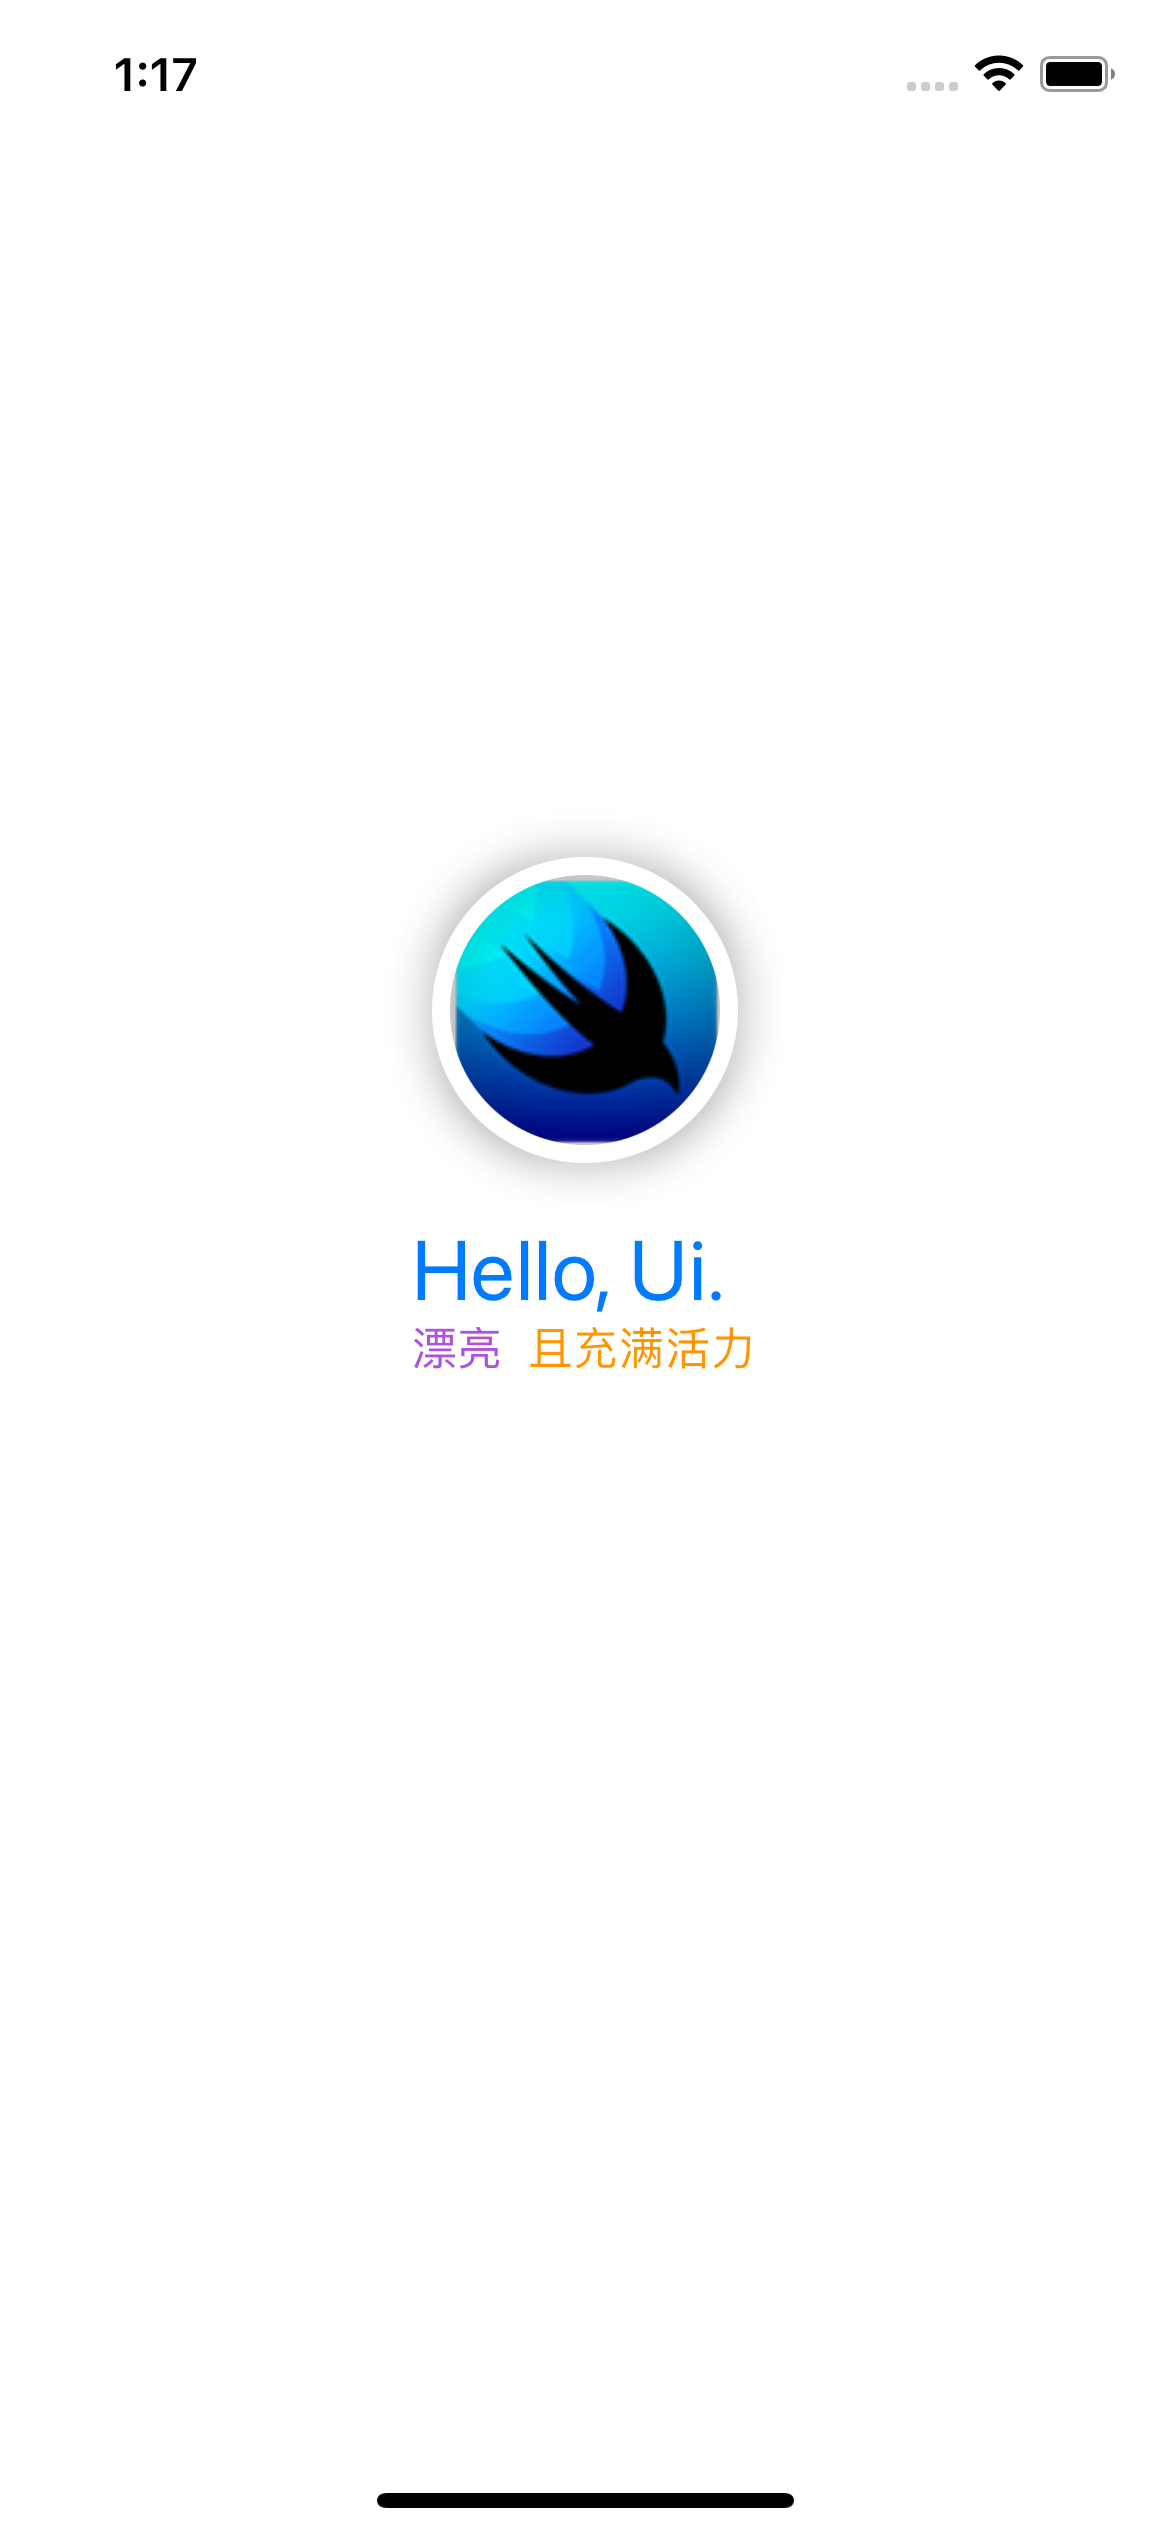
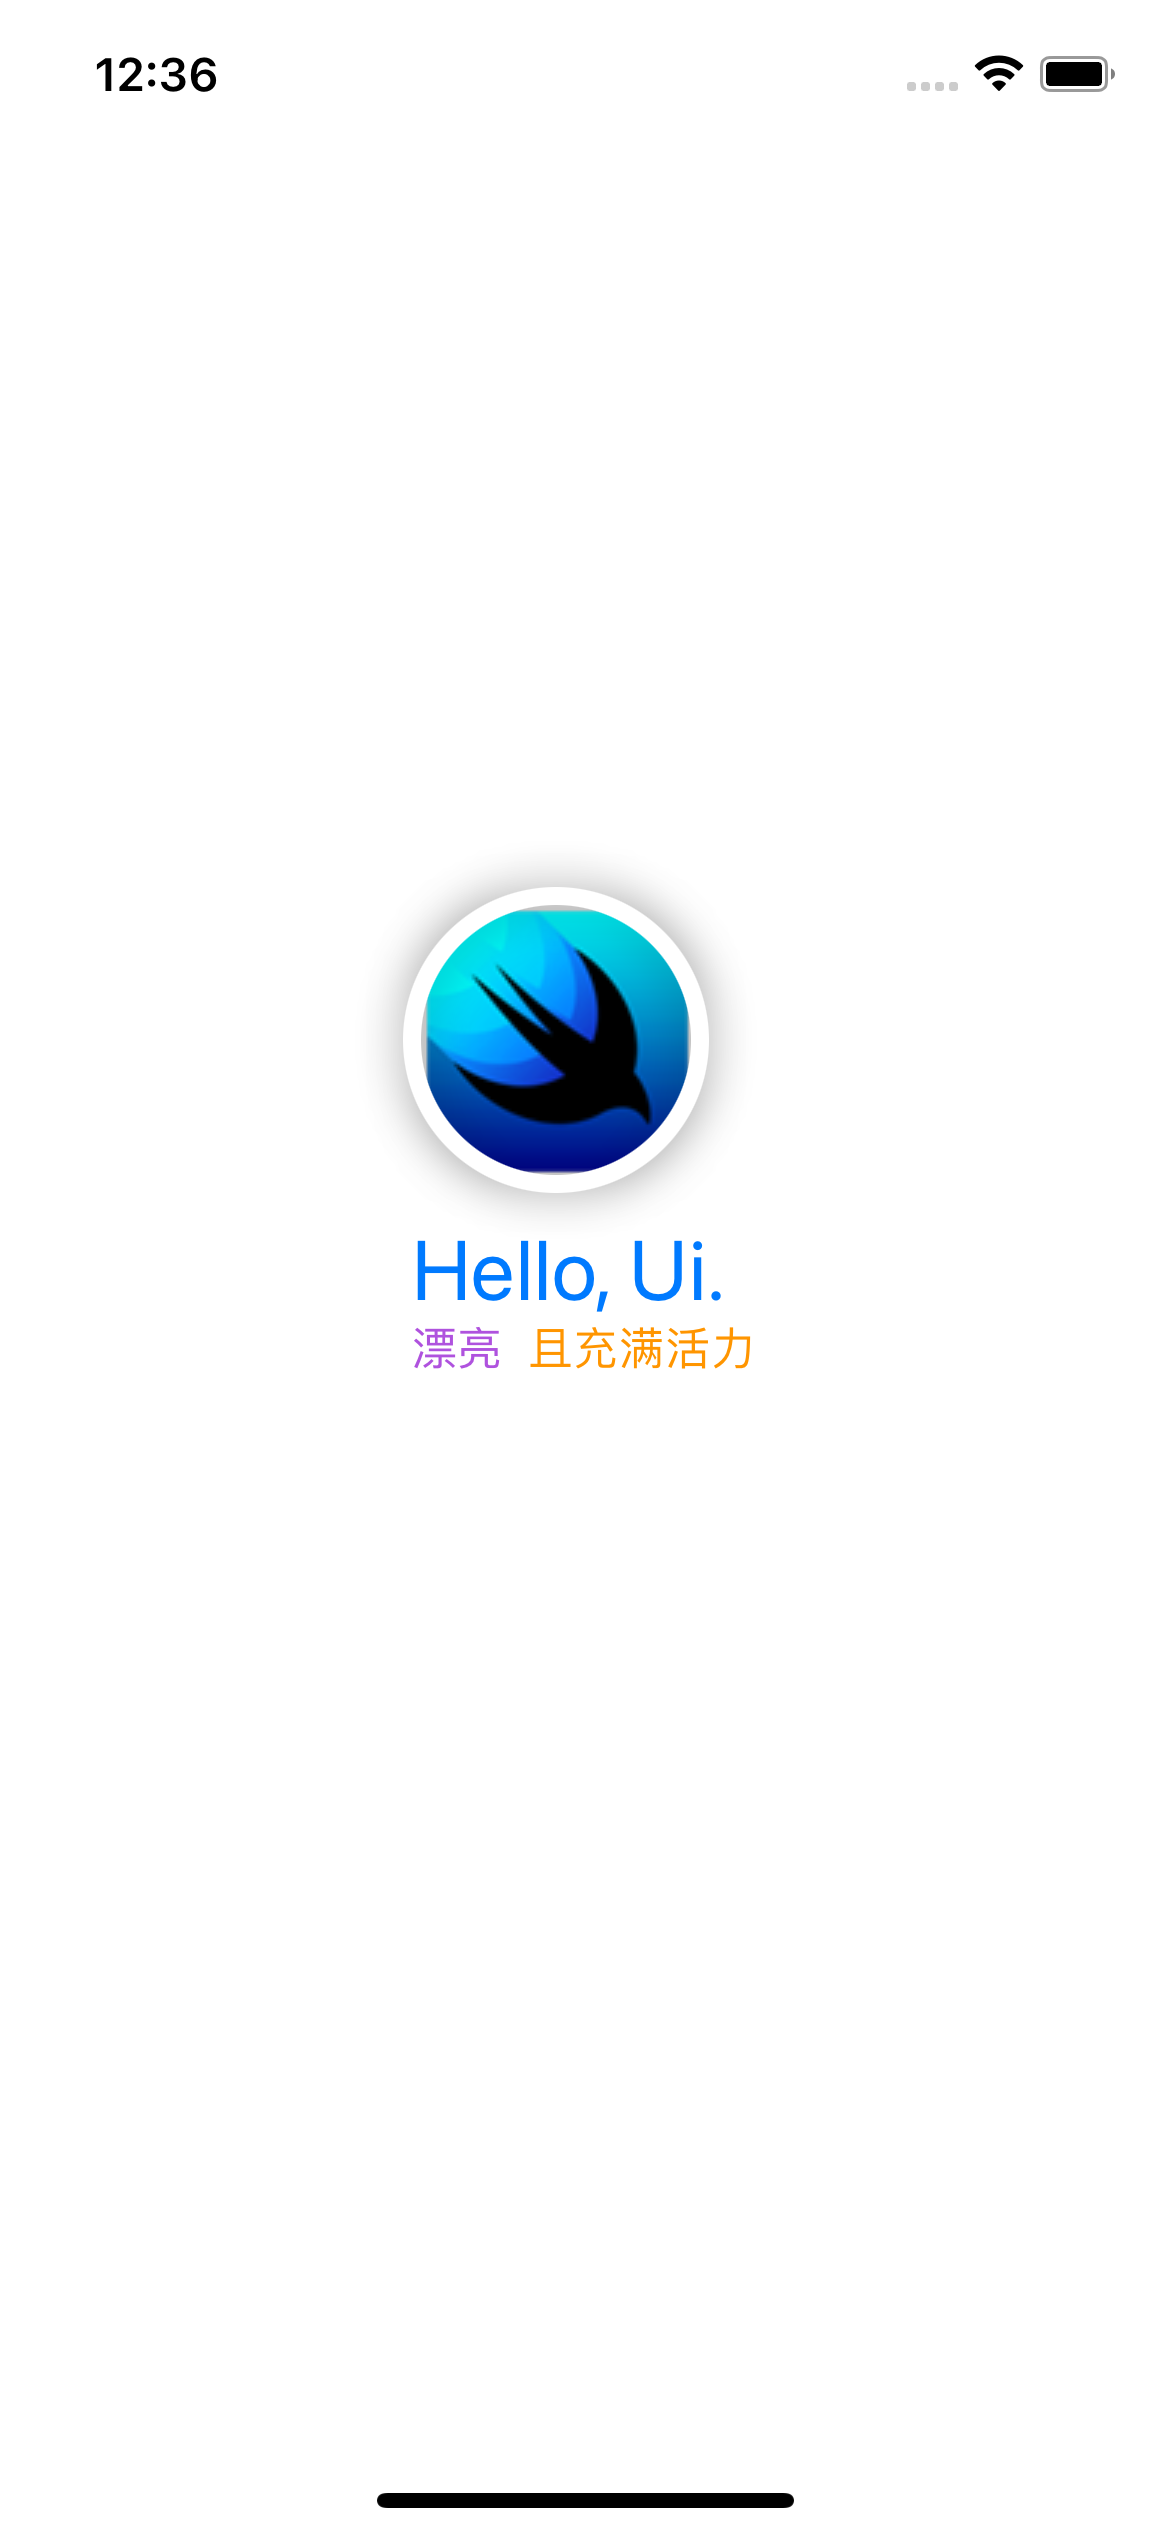
update

Changed region(s): [[0.3385, 0.312, 0.6462, 0.4992], [0.0923, 0.0, 0.1846, 0.0312]]

diff --git a/ui1/lam/lam/ContentView.swift b/ui1/lam/lam/ContentView.swift
@@ -9,10 +9,11 @@ import SwiftUI
 
 struct ContentView: View {
     var body: some View {
-        VStack {
+        VStack(alignment: .leading) {
             Circleimage()
-                .offset(y: -110)
+                .offset(y: -100)
                 .padding(.bottom, -100)
+                
             
             VStack(alignment: .leading) {
                 Text("Hello, Ui.")
